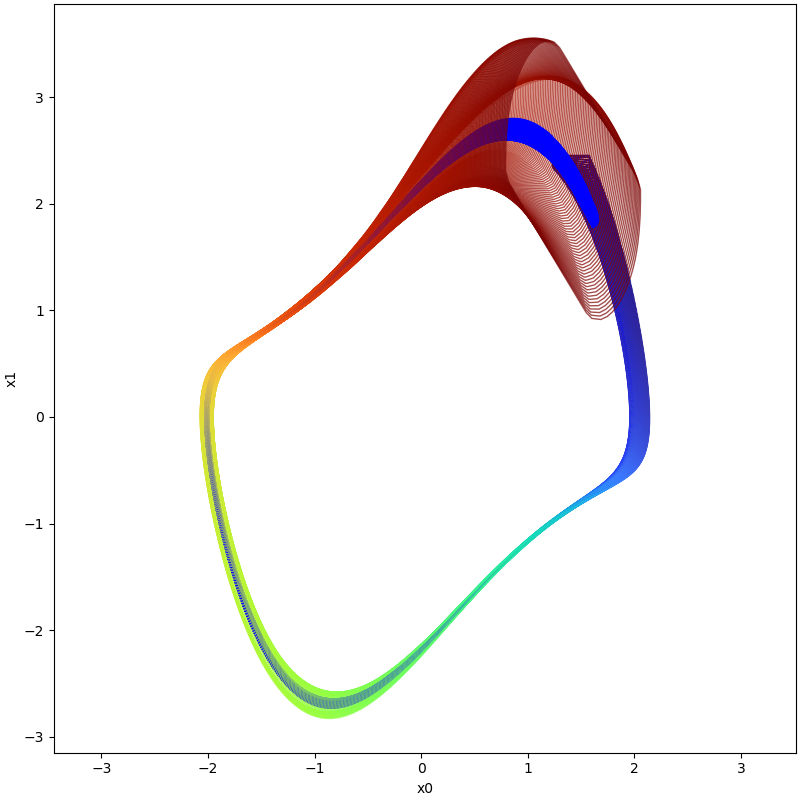
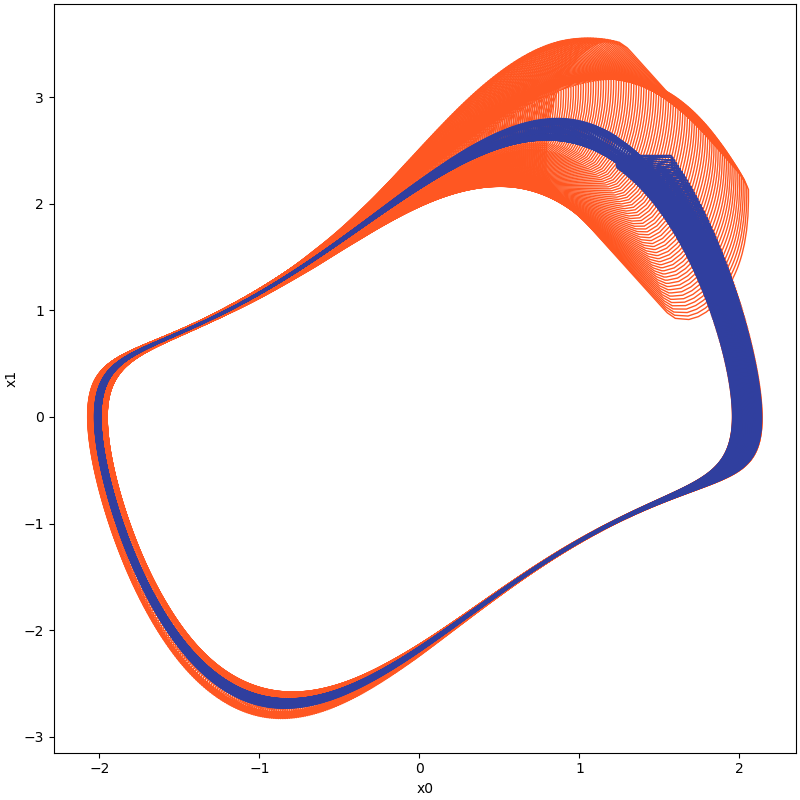
refine over code

diff --git a/docs/misc/models.md b/docs/misc/models.md
@@ -44,7 +44,8 @@ $$
 
 #### References
 
-\[1\]:
+\[1\]: Chen, X. (2015). Reachability analysis of non-linear hybrid systems using taylor models (Doctoral dissertation,
+Fachgruppe Informatik, RWTH Aachen University).
 
 ---
 
@@ -168,23 +169,38 @@ $$
 
 --- 
 
-### Lotka-Volterra
+### Lotka-Volterra model of 2 variables
 
 $$
 \begin{align*}
-\dot{x}_{0} &= -x_{0} + r x_{0} - a x_{1} x_{0} \\
-\dot{x}_{1} &= -x_{1} + s x_{1} + a c x_{1} x_{0} \\
-r &= 0.5 \\
-a &= 1 \\
-s &= -0.5+\theta, \theta \in [-0.5,0.5] \\
-c &= 1
+\dot{x}_{0} &= 1.5 x_{0} - x_{0} x_{1} \\
+\dot{x}_{1} &= -3 x_{1} + x_{0} x_{1} \\
 \end{align*}
 $$
 
 #### References
 
-[1]: Xue, B., Li, R., Zhan, N., & Fränzle, M. (2021, May). Reach-avoid analysis for stochastic discrete-time systems. In
-2021 American Control Conference (ACC) (pp. 4879-4885). IEEE.
+[1]: Chen, X. (2015). Reachability analysis of non-linear hybrid systems using taylor models (Doctoral dissertation,
+Fachgruppe Informatik, RWTH Aachen University).
+
+---
+
+### Lotka-Volterra model of 5 variables
+
+$$
+\begin{align*}
+\dot{x}_{0} &= x_{0} (1-(x_{0}+0.85 x_{1} + 0.5 x_{4})) \\
+\dot{x}_{1} &= x_{1} (1-(x_{1}+0.85 x_{2} + 0.5 x_{1})) \\
+\dot{x}_{2} &= x_{2} (1-(x_{2}+0.85 x_{3} + 0.5 x_{2})) \\
+\dot{x}_{3} &= x_{3} (1-(x_{3}+0.85 x_{4} + 0.5 x_{3})) \\
+\dot{x}_{4} &= x_{4} (1-(x_{4}+0.85 x_{0} + 0.5 x_{4})) \\
+\end{align*}
+$$
+
+#### References
+
+\[1\]: Chen, X. (2015). Reachability analysis of non-linear hybrid systems using taylor models (Doctoral dissertation,
+Fachgruppe Informatik, RWTH Aachen University).
 
 ---
 
@@ -221,3 +237,99 @@ Aided Verification: 28th International Conference, CAV 2016, Toronto, ON, Canada
 
 ---
 
+### Biological model of 7 variables
+
+$$
+\begin{align*}
+\dot{x}_{0} &= -0.4 x_{0} + 5 x_{2} x_{3} \\
+\dot{x}_{1} &= 0.4 x_{0} - x_{1} \\
+\dot{x}_{2} &= x_{1} - 5 x_{2} x_{3} \\
+\dot{x}_{3} &= 5 x_{4} x_{5} - 5 x_{2} x_{3} \\
+\dot{x}_{4} &= -5 x_{4} x_{5} + 5 x_{2} x_{3} \\
+\dot{x}_{5} &= 0.5 x_{6} - 5 x_{4} x_{5} \\
+\dot{x}_{6} &= -0.5 x_{6} + 5 x_{4} x_{5} \\
+\end{align*}
+$$
+
+#### References
+
+\[1\]: Chen, X. (2015). Reachability analysis of non-linear hybrid systems using taylor models (Doctoral dissertation,
+Fachgruppe Informatik, RWTH Aachen University).
+
+---
+
+### Biolgoical model of 9 variables
+
+$$
+\begin{align*}
+\dot{x}_{0} &= 3 x_{2} - x_{0} x_{5} \\
+\dot{x}_{1} &= x_{3} - x_{1} x_{5} \\
+\dot{x}_{2} &= x_{0} x_{5} - 3 x_{2} \\
+\dot{x}_{3} &= x_{1} x_{5} - x_{3} \\
+\dot{x}_{4} &= 3 x_{2} + 5 x_{0} - x_{4} \\
+\dot{x}_{5} &= 5 x_{4} + 3 x_{2} + x_{3} - x_{5} (x_{0}+x_{1}+2x_{7}+1) \\
+\dot{x}_{6} &= 5 x_{3} + x_{1} - 0.5 x_{6} \\
+\dot{x}_{7} &= 5 x_{6} - 2 x_{5} x_{7} + x_{8} - 0.2 x_{7} \\
+\dot{x}_{8} &= 2 x_{5} x_{7} - x_{8} \\
+\end{align*}
+$$
+
+#### References
+
+\[1\]: Chen, X. (2015). Reachability analysis of non-linear hybrid systems using taylor models (Doctoral dissertation,
+Fachgruppe Informatik, RWTH Aachen University).
+
+---
+
+### Jet engine
+
+$$
+\begin{align*}
+\dot{x}_{0} &= -x_{1} - 1.5 x_{0}^2 -0.5 x_{0}^3 -0.5 \\
+\dot{x}_{1} &= 3 x_{0} - x_{1}
+\end{align*}
+$$
+
+#### References
+
+\[1\]: Chen, X. (2015). Reachability analysis of non-linear hybrid systems using taylor models (Doctoral dissertation,
+Fachgruppe Informatik, RWTH Aachen University).
+
+---
+
+### Spring-pendulum
+
+$$
+\begin{align*}
+\dot{x}_{0} &= x_{2} \\
+\dot{x}_{1} &= x_{3} \\
+\dot{x}_{2} &= x_{0} x_{3}^2 + g \cos{\theta} - k (x_{0}-L) \\
+\dot{x}_{3} &= - \frac{2 x_{2} x_{3} + g \sin{\theta}}{x_{0}} \\
+k &= 2 \\
+L &= 1 \\
+g &= 9.8
+\end{align*}
+$$
+
+#### References
+
+\[1\]: Chen, X. (2015). Reachability analysis of non-linear hybrid systems using taylor models (Doctoral dissertation,
+Fachgruppe Informatik, RWTH Aachen University).
+
+---
+
+### Brusselator
+
+$$
+\begin{align*}
+\dot{x}_{0} &= A + x_{0}^2 x_{1} - B x_{0} - x_{0} \\
+\dot{x}_{1} &= B x_{0} - x_{0}^2 x_{1} \\
+A &= 1 \\
+B &= 1.5
+\end{align*}
+$$
+
+#### References
+
+\[1\]: Chen, X. (2015). Reachability analysis of non-linear hybrid systems using taylor models (Doctoral dissertation,
+Fachgruppe Informatik, RWTH Aachen University).

diff --git a/docs/benchmark/over_approximation.md b/docs/benchmark/over_approximation.md
@@ -6,11 +6,11 @@ sidebar_position: 3
 
 We test our implementation on a PC with following configurations:
 
-| Hardware |                        Detail                        | 
-|:--------:|:----------------------------------------------------:|
-|   CPU    |  Intel(R) Core(TM) i7-11800H CPU @ 2.30GHz (8 CPUs)  |
-|  Memory  |                         16GB                         |
-|   GPU    |                       RTX3060                        |
+| Hardware |                       Detail                       | 
+|:--------:|:--------------------------------------------------:|
+|   CPU    | Intel(R) Core(TM) i7-11800H CPU @ 2.30GHz (8 CPUs) |
+|  Memory  |                        16GB                        |
+|   GPU    |                      RTX3060                       |
 
 ## Settings
 
@@ -26,79 +26,39 @@ from pyrat.geometry import Geometry, Zonotope, Interval
 from pyrat.dynamic_system import NonLinSys
 from pyrat.model import vanderpol, Model
 from pyrat.algorithm import ASB2008CDC
-
-# init dynamic system
-system = NonLinSys(Model(vanderpol, [2, 1]))
-
-# settings for the computation
-options = ASB2008CDC.Options()
-options.t_end = 6.74
-options.step = 0.005
-options.tensor_order = 3
-options.taylor_terms = 4
-options.r0 = [Zonotope([1.4, 2.4], np.diag([0.17, 0.06]))]
-
-options.u = Zonotope.zero(1, 1)
-options.u_trans = np.zeros(1)
-
-# settings for the using geometry
-Zonotope.REDUCE_METHOD = Zonotope.REDUCE_METHOD.GIRARD
-Zonotope.ORDER = 50
-
-# reachable sets computation
-ti, tp0, _, _ = ASB2008CDC.reach(system, options)
-
 from pyrat.geometry.operation import boundary
+from pyrat.util.visualization import plot_cmp
 
-c = np.array([1.4, 2.4], dtype=float)
-inf = c - [0.17, 0.06]
-sup = c + [0.17, 0.06]
-box = Interval(inf, sup)
+if __name__ == '__main__':
+    # init dynamic system
+    system = NonLinSys(Model(vanderpol, [2, 1]))
 
-options.r0 = boundary(box, 1, Geometry.TYPE.ZONOTOPE)
+    # settings for the computation
+    options = ASB2008CDC.Options()
+    options.t_end = 6.74
+    options.step = 0.005
+    options.tensor_order = 3
+    options.taylor_terms = 4
 
-_, tp1, _, _ = ASB2008CDC.reach(system, options)
+    options.u = Zonotope.zero(1, 1)
+    options.u_trans = np.zeros(1)
 
-import matplotlib.pyplot as plt
-from matplotlib.patches import Polygon
+    # settings for the using geometry
+    Zonotope.REDUCE_METHOD = Zonotope.REDUCE_METHOD.GIRARD
+    Zonotope.ORDER = 50
 
-px = 1 / plt.rcParams["figure.dpi"]
-width, height = 800, 800
-dims = [0, 1]
-fig, ax = plt.subplots(figsize=(width * px, height * px), layout="constrained")
+    z = Zonotope([1.4, 2.4], np.diag([0.17, 0.06]))
 
+    # reachable sets computation without boundary analysis
+    options.r0 = [z]
+    ti_whole, tp_whole, _, _ = ASB2008CDC.reach(system, options)
 
-def __add_zonotope(zono: "Zonotope", color, is_filled, alpha):
-    g = zono.proj(dims)
-    p = Polygon(
-        g.polygon(),
-        closed=True,
-        alpha=alpha,
-        fill=is_filled,
-        linewidth=1,
-        edgecolor=color,
-        facecolor=color,
-        color=color,
-    )
-    ax.add_patch(p)
+    # reachable sets computation with boundary analysis
+    options.r0 = boundary(z, 1, Geometry.TYPE.ZONOTOPE)
+    ti_bound, tp_bound, _, _ = ASB2008CDC.reach(system, options)
 
-
-assert len(tp0) == len(tp1)
-
-# show tp0 & tp1
-for idx in range(len(tp0)):
-    c = plt.cm.turbo(idx / len(tp0))
-    for r in tp1[idx]:
-        __add_zonotope(r, "blue", True, 1)
-    for r in tp0[idx]:
-        __add_zonotope(r, c, False, 0.7)
-
-ax.autoscale_view()
-ax.axis("equal")
-ax.set_xlabel("x" + str(dims[0]))
-ax.set_ylabel("x" + str(dims[1]))
-
-plt.show()
+    # visualize the results
+    plot_cmp([tp_whole, tp_bound], [0, 1], cs=['#FF5722', '#303F9F'])
 ```
 
 ![](imgs/over.png)

diff --git a/docs/overview.md b/docs/overview.md
@@ -155,7 +155,7 @@ following:
 |:-----------------------------:|:--------------------------------:|
 | ![](imgs/vanderpol_bound.png) | ![](imgs/vanderpol_no_bound.png) |
 
-And more comparison :smirk_cat:
+And more :smirk_cat:
 
 |                         Dynamic System                         |                                                            Implementation                                                            | Reachable Sets (Orange-NBA,Blue-BA) |
 |:--------------------------------------------------------------:|:------------------------------------------------------------------------------------------------------------------------------------:|:-----------------------------------:|
